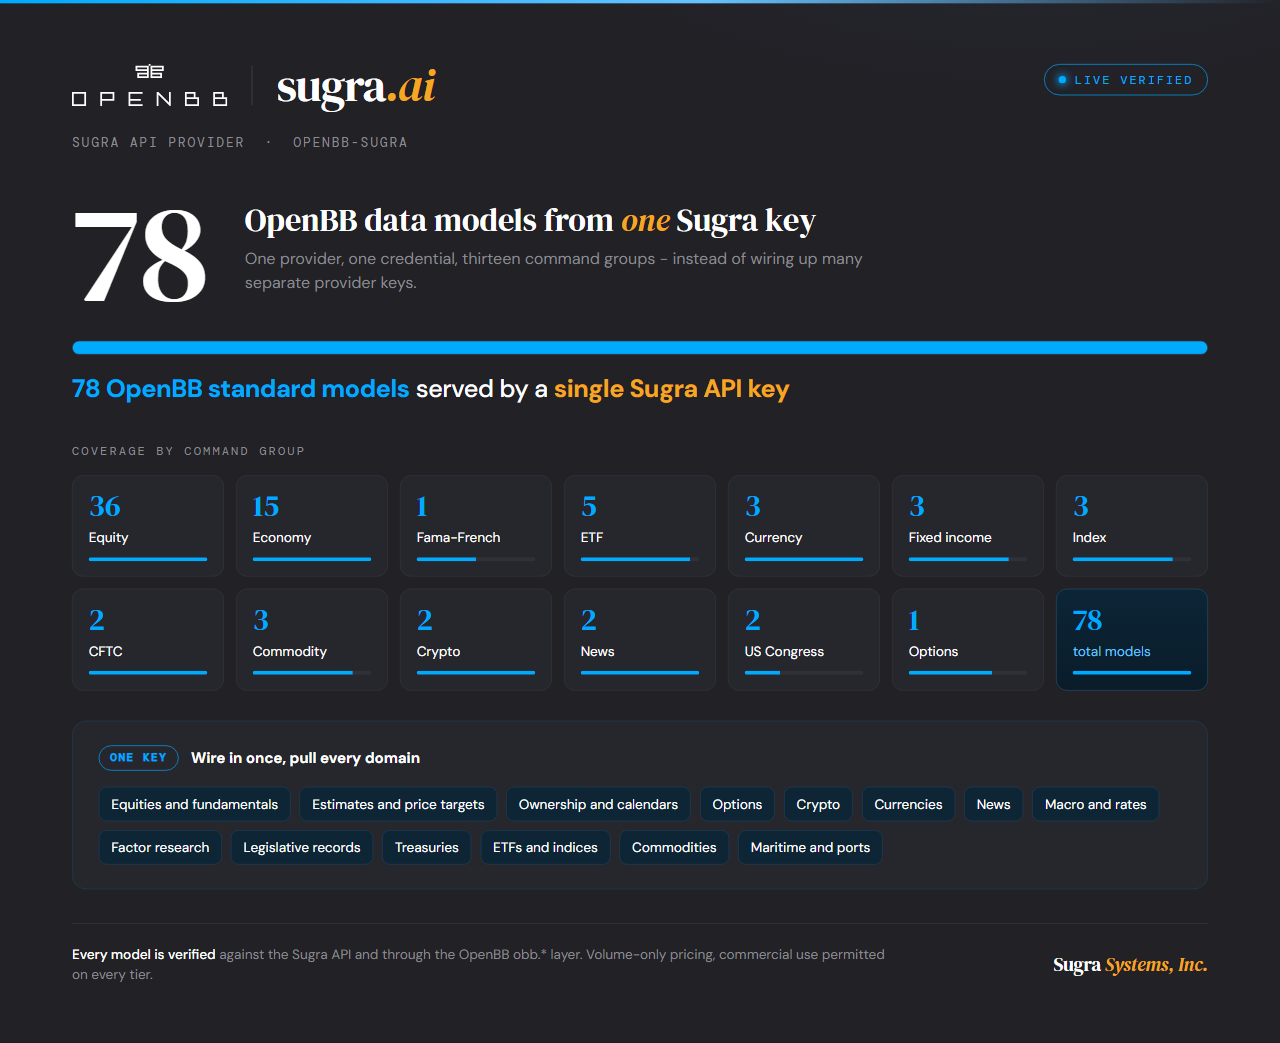
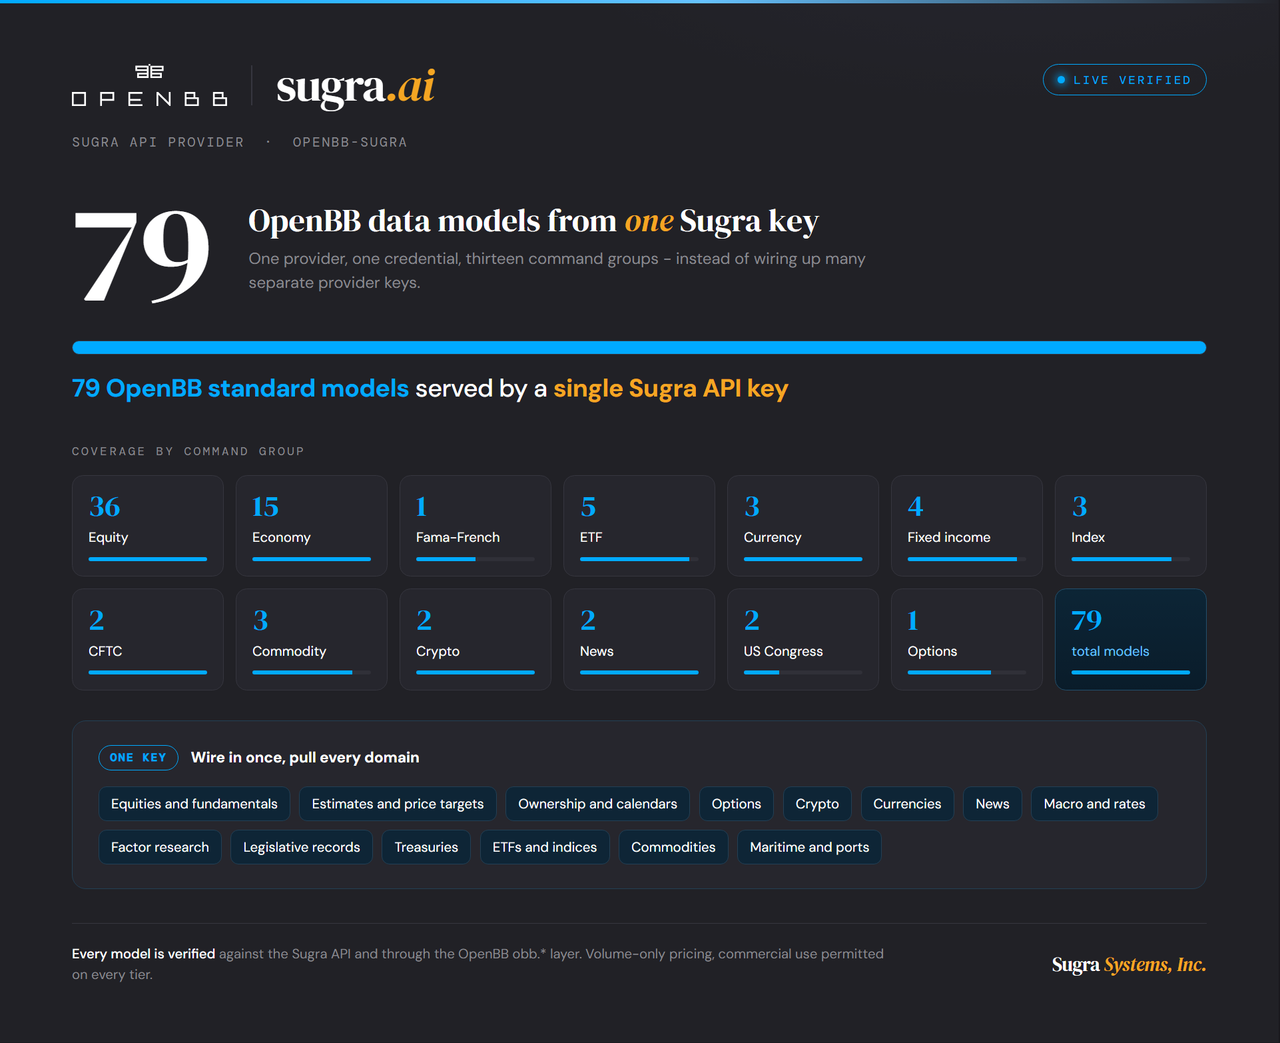
DATA-17.8: add TreasuryAuctions fetcher; coverage 78 -> 79
Map the Sugra /api/v1/treasury/auctions projection onto the OpenBB
USTreasuryAuctionsData standard model. The API now serves issue_date
and maturity_date (API PR #312), supplying the two required fields the
model previously lacked.

- Coerce 'null'/'' string literals to None on numeric auction-result
  fields (high_yield, bid_to_cover_ratio, offering_amount, ...).
- Apply cusip and auction-date filters client-side (the endpoint
  ignores them), bounded to the fetched page.
- Reject page_num > 1 (the endpoint has no page offset) rather than
  silently returning page 1.

Regenerate COVERAGE.md, README, and the coverage banner for 79 models
(fixedincome 3 -> 4).

diff --git a/assets/coverage.html b/assets/coverage.html
@@ -74,7 +74,7 @@
   </div>
 
   <div class="hero">
-    <div class="big">78</div>
+    <div class="big">79</div>
     <div class="cap">
       <div class="l1">OpenBB data models from <em>one</em> Sugra key</div>
       <div class="l2">One provider, one credential, thirteen command groups - instead of wiring up many separate provider keys.</div>
@@ -82,7 +82,7 @@
   </div>
 
   <div class="bar"></div>
-  <div class="barcap"><b>78 OpenBB standard models</b> served by a <span class="am">single Sugra API key</span></div>
+  <div class="barcap"><b>79 OpenBB standard models</b> served by a <span class="am">single Sugra API key</span></div>
 
   <div class="h2">Coverage by command group</div>
   <div class="grid">
@@ -91,7 +91,7 @@
     <div class="cell"><div class="n">1</div><div class="g">Fama-French</div><div class="t"><i style="width:50%"></i></div></div>
     <div class="cell"><div class="n">5</div><div class="g">ETF</div><div class="t"><i style="width:92%"></i></div></div>
     <div class="cell"><div class="n">3</div><div class="g">Currency</div><div class="t"><i style="width:100%"></i></div></div>
-    <div class="cell"><div class="n">3</div><div class="g">Fixed income</div><div class="t"><i style="width:84%"></i></div></div>
+    <div class="cell"><div class="n">4</div><div class="g">Fixed income</div><div class="t"><i style="width:92%"></i></div></div>
     <div class="cell"><div class="n">3</div><div class="g">Index</div><div class="t"><i style="width:84%"></i></div></div>
     <div class="cell"><div class="n">2</div><div class="g">CFTC</div><div class="t"><i style="width:100%"></i></div></div>
     <div class="cell"><div class="n">3</div><div class="g">Commodity</div><div class="t"><i style="width:84%"></i></div></div>
@@ -99,7 +99,7 @@
     <div class="cell"><div class="n">2</div><div class="g">News</div><div class="t"><i style="width:100%"></i></div></div>
     <div class="cell"><div class="n">2</div><div class="g">US Congress</div><div class="t"><i style="width:30%"></i></div></div>
     <div class="cell"><div class="n">1</div><div class="g">Options</div><div class="t"><i style="width:70%"></i></div></div>
-    <div class="cell total"><div class="n">78</div><div class="g">total models</div><div class="t"><i style="width:100%"></i></div></div>
+    <div class="cell total"><div class="n">79</div><div class="g">total models</div><div class="t"><i style="width:100%"></i></div></div>
   </div>
 
   <div class="panel">

diff --git a/openbb_sugra/models/treasury_auctions.py b/openbb_sugra/models/treasury_auctions.py
@@ -1,0 +1,150 @@
+"""Sugra US Treasury Auctions Model."""
+
+# pylint: disable=unused-argument
+
+from typing import Any
+
+from openbb_core.provider.abstract.fetcher import Fetcher
+from openbb_core.provider.standard_models.treasury_auctions import (
+    USTreasuryAuctionsData,
+    USTreasuryAuctionsQueryParams,
+)
+
+# The standard model's security_type is lowercase; the Sugra endpoint (FiscalData)
+# uses the canonical title/upper case.
+_SECURITY_TYPE = {
+    "bill": "Bill", "note": "Note", "bond": "Bond",
+    "cmb": "CMB", "tips": "TIPS", "frn": "FRN",
+}
+
+# Sugra projection field -> standard model field, for the numeric columns that
+# arrive as strings and need float coercion.
+_FLOAT_MAP = {
+    "high_yield": "high_yield",
+    "bid_to_cover_ratio": "bid_to_cover_ratio",
+    "offering_amt": "offering_amount",
+    "total_accepted": "total_accepted",
+    "allocation_pctage": "allocation_percentage",
+}
+# Fields whose names already match the standard model and pass through as-is.
+_DIRECT = (
+    "cusip", "issue_date", "security_type", "security_term", "maturity_date",
+    "auction_date", "interest_rate", "original_security_term", "original_issue_date",
+)
+
+
+def _to_float(value: Any) -> float | None:
+    """Coerce a numeric string to float; '', 'null', None -> None."""
+    if value is None:
+        return None
+    if isinstance(value, (int, float)):
+        return float(value)
+    s = str(value).strip()
+    if not s or s.lower() in ("null", "none", "n/a", "-"):
+        return None
+    try:
+        return float(s)
+    except ValueError:
+        return None
+
+
+class SugraUSTreasuryAuctionsFetcher(
+    Fetcher[USTreasuryAuctionsQueryParams, list[USTreasuryAuctionsData]]
+):
+    """Fetch US Treasury auction results from the Sugra API."""
+
+    @staticmethod
+    def transform_query(params: dict[str, Any]) -> USTreasuryAuctionsQueryParams:
+        """Transform the query parameters."""
+        return USTreasuryAuctionsQueryParams(**params)
+
+    @staticmethod
+    async def aextract_data(
+        query: USTreasuryAuctionsQueryParams,
+        credentials: dict[str, str] | None,
+        **kwargs: Any,
+    ) -> list[dict]:
+        """Return the raw auction rows from the Sugra API."""
+        # pylint: disable=import-outside-toplevel
+        from openbb_core.app.model.abstract.error import OpenBBError
+
+        from openbb_sugra.utils.helpers import envelope_data, get_api_key, sugra_get
+
+        # The Sugra endpoint paginates only by page size; it has no page offset,
+        # so a page_num beyond the first cannot be honoured - reject rather than
+        # silently returning page 1.
+        if query.page_num is not None and query.page_num > 1:
+            raise OpenBBError(
+                "The Sugra treasury provider does not support page_num pagination; "
+                "widen page_size instead."
+            )
+
+        api_key = get_api_key(credentials)
+        params: dict[str, Any] = {}
+        if query.security_type is not None:
+            params["security_type"] = _SECURITY_TYPE.get(
+                query.security_type, query.security_type
+            )
+        if query.page_size is not None:
+            params["limit"] = query.page_size
+        response = await sugra_get("/api/v1/treasury/auctions", api_key, params)
+        payload = envelope_data(response)
+        return payload.get("records", []) if isinstance(payload, dict) else []
+
+    @staticmethod
+    def transform_data(
+        query: USTreasuryAuctionsQueryParams,
+        data: list[dict],
+        **kwargs: Any,
+    ) -> list[USTreasuryAuctionsData]:
+        """Map to the standard model and apply client-side cusip/date filters.
+
+        The Sugra endpoint does not filter by cusip or auction date server-side,
+        so the standard model's cusip/start_date/end_date are applied here,
+        bounded to the fetched page.
+        """
+        # pylint: disable=import-outside-toplevel
+        from openbb_core.provider.utils.errors import EmptyDataError
+        from pydantic import ValidationError
+
+        if not data:
+            raise EmptyDataError("No US Treasury auction records returned.")
+
+        wanted_cusip = (query.cusip or "").strip().upper() or None
+        rows: list[USTreasuryAuctionsData] = []
+        for rec in data:
+            if not isinstance(rec, dict):
+                continue
+            # issue_date + maturity_date are required by the standard model; the
+            # Sugra endpoint serves them, but skip a row that lacks either.
+            if not rec.get("issue_date") or not rec.get("maturity_date"):
+                continue
+            mapped: dict[str, Any] = {
+                k: rec[k] for k in _DIRECT if rec.get(k) is not None
+            }
+            for ours, std in _FLOAT_MAP.items():
+                val = _to_float(rec.get(ours))
+                if val is not None:
+                    mapped[std] = val
+            if rec.get("allocation_method"):
+                mapped["auction_format"] = rec["allocation_method"]
+            if wanted_cusip and str(mapped.get("cusip", "")).upper() != wanted_cusip:
+                continue
+            try:
+                rows.append(USTreasuryAuctionsData.model_validate(mapped))
+            except ValidationError:
+                continue
+
+        # Client-side auction-date window (the endpoint ignores start/end).
+        start, end = query.start_date, query.end_date
+        if start or end:
+            rows = [
+                r
+                for r in rows
+                if (start is None or (r.auction_date and r.auction_date >= start))
+                and (end is None or (r.auction_date and r.auction_date <= end))
+            ]
+
+        if not rows:
+            raise EmptyDataError("No US Treasury auction records matched the query.")
+        return rows

diff --git a/tests/test_sugra_fetchers.py b/tests/test_sugra_fetchers.py
@@ -96,6 +96,7 @@ PARAMS: dict[str, dict] = {
     "ShareStatistics": {"symbol": "AAPL"},
     "ShortTermEnergyOutlook": {},
     "TrailingDividendYield": {"symbol": "AAPL"},
+    "TreasuryAuctions": {"security_type": "note", "page_size": 10},
     "Unemployment": {},
     "WorldNews": {},
 }
@@ -387,3 +388,97 @@ def test_famafrench_momentum_and_daily_live(credentials):
         asyncio.run(SugraFamaFrenchFactorsFetcher.aextract_data(daily_q, credentials)),
     )
     assert len(daily) > 60  # full history requested, not just the trailing 60
+
+
+# --- Treasury auctions (DATA-17.8) ----------------------------------------
+
+def test_treasury_auctions_maps_fields_and_skips_incomplete_rows():
+    """Maps the Sugra projection to the standard model; a row missing the
+    required issue_date/maturity_date is skipped, not failed."""
+    from openbb_core.provider.standard_models.treasury_auctions import (
+        USTreasuryAuctionsQueryParams,
+    )
+
+    from openbb_sugra.models.treasury_auctions import SugraUSTreasuryAuctionsFetcher
+
+    data = [
+        {
+            "cusip": "91282CXX0", "security_type": "Note", "security_term": "5-Year",
+            "issue_date": "2026-06-30", "maturity_date": "2031-06-30",
+            "auction_date": "2026-06-24", "interest_rate": 4.125,
+            "high_yield": "4.125", "bid_to_cover_ratio": "2.45",
+            "offering_amt": "70000000000", "total_accepted": "70000000000",
+            "allocation_method": "Single-Price", "allocation_pctage": 55.5,
+        },
+        # missing maturity_date -> required by the model, must be skipped
+        {"cusip": "X", "security_type": "Bill", "security_term": "8-Week",
+         "issue_date": "2026-06-25", "auction_date": "2026-06-23"},
+    ]
+    rows = SugraUSTreasuryAuctionsFetcher.transform_data(
+        USTreasuryAuctionsQueryParams(), data
+    )
+    assert len(rows) == 1
+    r = rows[0]
+    assert str(r.cusip) == "91282CXX0"
+    assert str(r.issue_date) == "2026-06-30"
+    assert str(r.maturity_date) == "2031-06-30"
+    assert r.high_yield == 4.125
+    assert r.offering_amount == 70000000000.0
+    assert r.auction_format == "Single-Price"
+    assert r.allocation_percentage == 55.5
+
+
+def test_treasury_auctions_client_side_cusip_and_date_filter():
+    """cusip + start/end_date are applied client-side (the endpoint ignores them).
+
+    Note: USTreasuryAuctionsQueryParams defaults the date window to ~the last 3
+    months, so the cusip case uses a wide explicit start_date to isolate the
+    cusip filter, and the date case sets an explicit window.
+    """
+    from datetime import date
+
+    from openbb_core.provider.standard_models.treasury_auctions import (
+        USTreasuryAuctionsQueryParams,
+    )
+
+    from openbb_sugra.models.treasury_auctions import SugraUSTreasuryAuctionsFetcher
+
+    base = {
+        "security_type": "Note", "security_term": "5-Year",
+        "issue_date": "2026-06-30", "maturity_date": "2031-06-30",
+    }
+    data = [
+        {**base, "cusip": "912828AA1", "auction_date": "2026-06-20"},
+        {**base, "cusip": "912828BB2", "auction_date": "2026-01-10"},
+    ]
+    # Wide window so only the cusip filter applies (default window is ~3 months).
+    by_cusip = SugraUSTreasuryAuctionsFetcher.transform_data(
+        USTreasuryAuctionsQueryParams(cusip="912828bb2", start_date=date(2000, 1, 1)),
+        data,
+    )
+    assert len(by_cusip) == 1 and str(by_cusip[0].cusip) == "912828BB2"
+
+    by_date = SugraUSTreasuryAuctionsFetcher.transform_data(
+        USTreasuryAuctionsQueryParams(start_date=date(2026, 6, 1), end_date=date(2026, 6, 30)),
+        data,
+    )
+    assert len(by_date) == 1 and str(by_date[0].cusip) == "912828AA1"
+
+
+def test_treasury_auctions_rejects_page_num_pagination():
+    """The Sugra endpoint has no page offset; page_num>1 must raise, not mislead."""
+    import asyncio
+
+    from openbb_core.app.model.abstract.error import OpenBBError
+    from openbb_core.provider.standard_models.treasury_auctions import (
+        USTreasuryAuctionsQueryParams,
+    )
+
+    from openbb_sugra.models.treasury_auctions import SugraUSTreasuryAuctionsFetcher
+
+    q = USTreasuryAuctionsQueryParams(page_num=2)
+    try:
+        asyncio.run(SugraUSTreasuryAuctionsFetcher.aextract_data(q, {"sugra_api_key": "x"}))
+    except OpenBBError:
+        return
+    raise AssertionError("page_num>1 should raise OpenBBError")

diff --git a/openbb_sugra/__init__.py b/openbb_sugra/__init__.py
@@ -100,6 +100,7 @@ from openbb_sugra.models.short_term_energy_outlook import (
 from openbb_sugra.models.sofr import SugraSOFRFetcher
 from openbb_sugra.models.sonia_rates import SugraSONIAFetcher
 from openbb_sugra.models.trailing_dividend_yield import SugraTrailingDivYieldFetcher
+from openbb_sugra.models.treasury_auctions import SugraUSTreasuryAuctionsFetcher
 from openbb_sugra.models.undervalued_growth_equities import (
     SugraUndervaluedGrowthEquitiesFetcher,
 )
@@ -195,6 +196,7 @@ sugra_provider = Provider(
         "ShareStatistics": SugraShareStatisticsFetcher,
         "ShortTermEnergyOutlook": SugraShortTermEnergyOutlookFetcher,
         "TrailingDividendYield": SugraTrailingDivYieldFetcher,
+        "TreasuryAuctions": SugraUSTreasuryAuctionsFetcher,
         "Unemployment": SugraUnemploymentFetcher,
         "WorldNews": SugraWorldNewsFetcher,
     },

diff --git a/README.md b/README.md
@@ -1,6 +1,6 @@
 <div align="center">
 
-<img src="https://raw.githubusercontent.com/Sugra-Systems/openbb-sugra/main/assets/coverage.png" alt="Sugra for OpenBB - 78 OpenBB data models from one Sugra key" width="960">
+<img src="https://raw.githubusercontent.com/Sugra-Systems/openbb-sugra/main/assets/coverage.png" alt="Sugra for OpenBB - 79 OpenBB data models from one Sugra key" width="960">
 
 # openbb-sugra
 
@@ -11,13 +11,13 @@
 [![License](https://img.shields.io/badge/license-AGPL--3.0-00AAFF)](LICENSE)
 [![OpenBB](https://img.shields.io/badge/OpenBB-provider-00AAFF)](https://docs.openbb.co/)
 
-One Sugra API key. 78 OpenBB data models. One provider.
+One Sugra API key. 79 OpenBB data models. One provider.
 
 </div>
 
 ---
 
-**One Sugra API key. 78 OpenBB data models. One provider.**
+**One Sugra API key. 79 OpenBB data models. One provider.**
 
 Wire in one credential and pull equities and fundamentals, estimates, ownership, calendars, options, crypto, currencies, news, macro and rates, treasuries, ETFs and indices, commodities, and maritime data - the breadth that otherwise needs many separate provider keys. Every model is live-verified against the Sugra API and through the OpenBB `obb.*` layer.
 
@@ -57,7 +57,7 @@ obb.crypto.price.historical("BITCOIN", provider="sugra")
 
 ## 4. Coverage
 
-A single Sugra key fulfils 78 OpenBB standard data models across thirteen command groups - equity, economy, Fama-French, ETF, currency, fixed income, index, CFTC, commodity, crypto, news, US Congress, and derivatives. The full matrix is generated from the shipped fetchers - see [`COVERAGE.md`](https://github.com/Sugra-Systems/openbb-sugra/blob/main/COVERAGE.md).
+A single Sugra key fulfils 79 OpenBB standard data models across thirteen command groups - equity, economy, Fama-French, ETF, currency, fixed income, index, CFTC, commodity, crypto, news, US Congress, and derivatives. The full matrix is generated from the shipped fetchers - see [`COVERAGE.md`](https://github.com/Sugra-Systems/openbb-sugra/blob/main/COVERAGE.md).
 
 ## 5. License
 

diff --git a/COVERAGE.md b/COVERAGE.md
@@ -1,6 +1,6 @@
 # openbb-sugra coverage
 
-One Sugra API key fulfils 78 OpenBB standard data models across 13 command groups. Install one provider, set one credential, and pull all of the below - instead of wiring many separate provider keys.
+One Sugra API key fulfils 79 OpenBB standard data models across 13 command groups. Install one provider, set one credential, and pull all of the below - instead of wiring many separate provider keys.
 
 | OpenBB command group | What it covers | Models |
 |---|---|---|
@@ -9,7 +9,7 @@ One Sugra API key fulfils 78 OpenBB standard data models across 13 command group
 | famafrench (1) | Fama-French academic factor returns | obb.famafrench.factors |
 | etf (5) | ETFs | obb.etf.historical, obb.etf.holdings, obb.etf.info, obb.etf.price_performance, obb.etf.search |
 | currency (3) | Forex | obb.currency.price.historical, obb.currency.search, obb.currency.snapshots |
-| fixedincome (3) | Rates and fixed income | obb.fixedincome.rate.effr, obb.fixedincome.rate.sofr, obb.fixedincome.rate.sonia |
+| fixedincome (4) | Rates and fixed income | obb.fixedincome.government.treasury_auctions, obb.fixedincome.rate.effr, obb.fixedincome.rate.sofr, obb.fixedincome.rate.sonia |
 | index (3) | Indices | obb.index.available, obb.index.constituents, obb.index.price.historical |
 | cftc (2) | CFTC Commitment of Traders | obb.cftc.cot, obb.cftc.cot_search |
 | commodity (3) | Commodities and energy | obb.commodity.petroleum_status_report, obb.commodity.price.spot, obb.commodity.short_term_energy_outlook |
